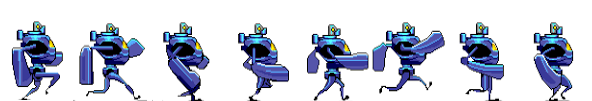
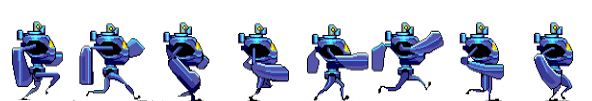
Fixed running right sprite and cleaned up a tiny bit.

Changed region(s): [[0.6081, 0.2079, 0.7601, 0.9208]]

diff --git a/cmpsc488/botbattleapp/nodejs_applications/static/javascript/game.js b/cmpsc488/botbattleapp/nodejs_applications/static/javascript/game.js
@@ -387,18 +387,6 @@ var GameBoard = function() {
          'loadedCallback' : imageLoadedCallback
     }
     
-    // drawable image
-    /*  imageSrc,   //required
-     *  sourceX, 
-     *  sourceY, 
-     *  sourceWidth, 
-     *  sourceHeight, 
-     *  x,          //required
-     *  y,           //required
-     *  width,      //required
-     *  height,         //required
-     *  loadedCallback
-     */
     var player1StandingSpriteOptions = {
       'imageSrc' : 'static/images/StandingRight.png',
       'sourceX' : 0,
@@ -408,7 +396,7 @@ var GameBoard = function() {
       'y' : self.player1PositionY,
       'width' : self.robotWidth, 
       'height' : self.robotHeight,
-      'ticksPerFrame' : 24, 
+      'ticksPerFrame' : 60, 
       'numberOfFrames' : 4,
       'loop' : true, 
       'visible' : true,
@@ -424,7 +412,7 @@ var GameBoard = function() {
         'y' : self.player2PositionY,
         'width' : self.robotWidth,
         'height' : self.robotHeight,
-        'ticksPerFrame' : 24, 
+        'ticksPerFrame' : 60, 
         'numberOfFrames' : 4,
         'loop' : true, 
         'visible' : true,
